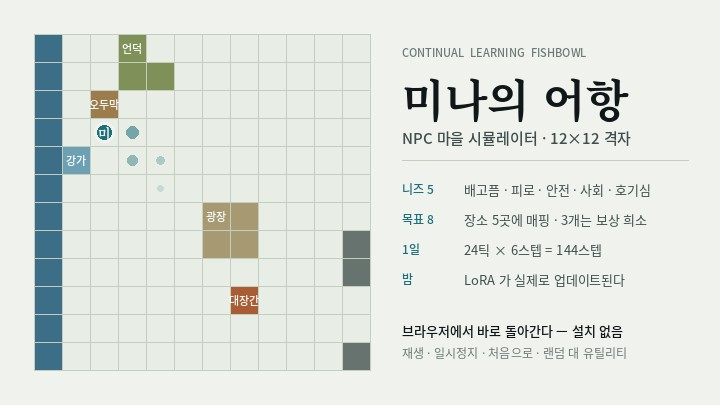
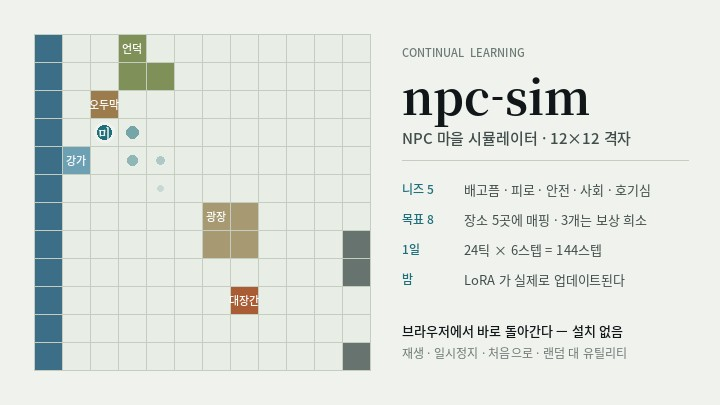
Rename the NPC Sim page to npc-sim, dropping the fishbowl metaphor
The title and card read "미나의 어항" -- a metaphor a reader has to decode before
reaching the plain description, "NPC village simulator". Page title, h1 and the
card image now just say npc-sim.

Changed region(s): [[0.55, 0.1778, 0.8861, 0.3259], [0.7333, 0.1185, 0.825, 0.1481]]

diff --git a/npc-sim/index.html b/npc-sim/index.html
@@ -1,5 +1,5 @@
 <meta charset="utf-8">
-<title>미나의 어항</title>
+<title>npc-sim</title>
 <link rel="preconnect" href="https://fonts.googleapis.com">
 <link rel="preconnect" href="https://fonts.gstatic.com" crossorigin>
 <link rel="stylesheet" href="https://fonts.googleapis.com/css2?family=Gowun+Batang:wght@400;700&family=IBM+Plex+Sans+KR:wght@400;500;600&family=IBM+Plex+Mono:wght@400;500&display=swap">
@@ -242,7 +242,7 @@ button{font:inherit; color:inherit; cursor:pointer}
 
 <div class="wrap">
   <p class="eyebrow">S1 · 월드 + 화면 · LLM 없음</p>
-  <h1>미나의 어항</h1>
+  <h1>npc-sim</h1>
   <p class="dek">약초를 캐서 파는 <b>미나</b>가 12×12 마을을 걷는다. 니즈 다섯 개가 매 스텝
     자라고, 목표에 맞는 장소에 서 있는 동안에만 줄어든다. <b>정책</b>을 랜덤 행동으로 바꿔
     보면 아래 숫자가 무너진다 — 그 격차가 S1 의 합격 기준이다.</p>
